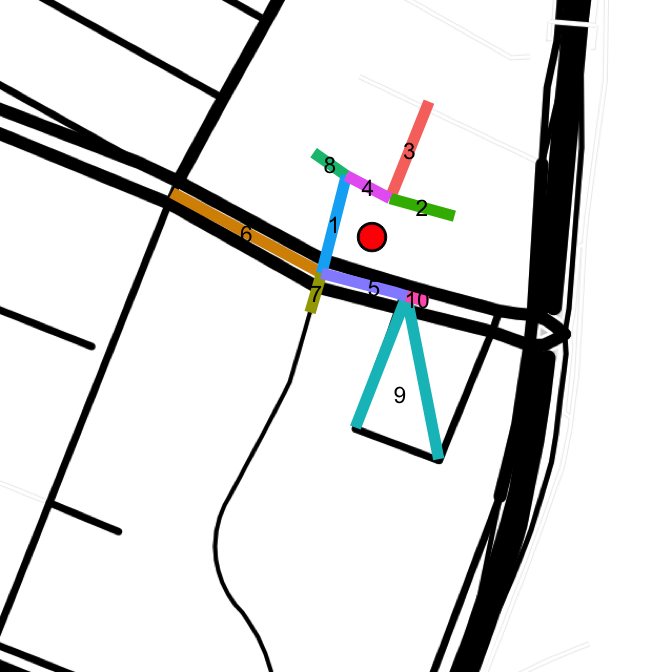
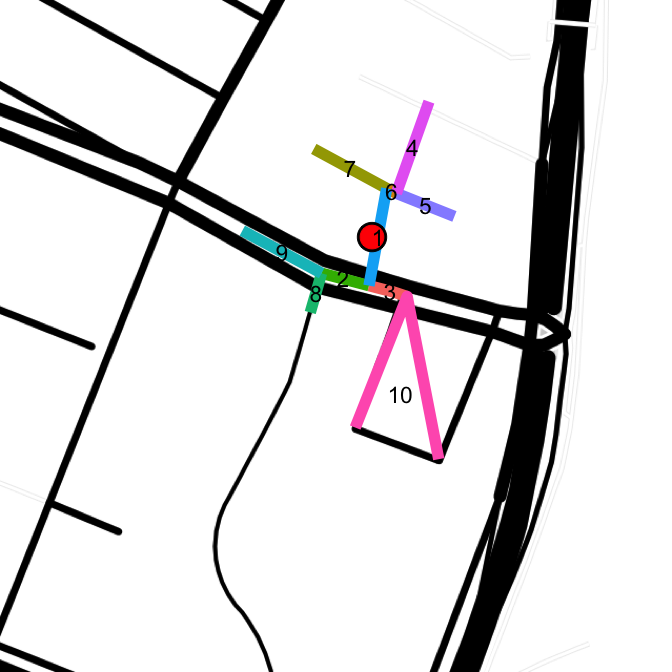
change treemap to points

Changed region(s): [[0.25, 0.125, 0.6875, 0.6875]]

diff --git a/rmd/Accuracy/Accuracy.md b/rmd/Accuracy/Accuracy.md
@@ -6,9 +6,9 @@ March 30, 2016
 
 
 
-This is an exploration to achieve higher accuracy in mapping latitude and longitude to a street segment. Here a segment is defined as a section of street bounded by two other streets. The end goal is an abstracted pattern, but the motivation is to more accurately map trees in New York City to a specific block. 
+This is an exploration to achieve higher accuracy in mapping latitude and longitude to a street block. A block is defined as a section of street bounded by one or two other sections of street. The end goal is an abstracted pattern, but the motivation is to more accurately map trees in New York City to a specific block. 
 
-The [previous analysis](http://www.joewillage.com/blog/2016/3/31/analyzing-new-yorks-trees) left off by stating that an answer to which block is the most tree lined had been reached, "but how valid is it?" Some inconsistencies were noted, specifically with the block that had the highest reported TPM. Recall the graphic that went with this statement. 
+The [previous analysis](http://www.joewillage.com/blog/2016/3/31/analyzing-new-yorks-trees) left off by stating that an answer to which block is the most tree lined had been reached, "but how valid is it?" Some inconsistencies were noted, specifically with the block that had the highest reported TPM. This is the graphic that went with this statement. 
 
 
 ```r
@@ -34,21 +34,25 @@ ggmap(map.sewardPark) +
 ![](Figs/sewardPark-1.png) 
 
 
+
+And note that all of these points mapped to the block of Grand b/w Clinton and Suffolk, when most actually lie on Clinton St. The southmost point mapped to this block is at 40.7153009, -73.9871687. That point is reverse geocoded as 410 Grand, with the ArcGIS API[^1]. One alternative is retrieving the full tree data from the Tree Map website. That returns the nearest address as 187 Clinton. Much more accurate, but not extensible. In fact, to emphasize a more general application, the Tree Map data will be subsetted to just a collection of geocoordinates. 
+
+
 ```r
-block.35 <- treeMap[treeMap$blockId == 35, ]
+points <- treeMap[, c("lat", "lon", "blockId")]
 ```
-And note that all of these points mapped to the block of Grand b/w Clinton and Suffolk, when most actually lie on Clinton St. The southmost point mapped to this block is tree 165907 (40.7153009, -73.9871687). Tree 165907 is reverse geocoded as 410 Grand, with the ArcGIS API. One alternative is retrieving the full tree data from the Tree Map website. That returns the nearest address as 187 Clinton. Much more accurate, but not extensible. 
 
-It's not the exact address that's needed for a given point, just the block it lies on. The Geonames Find Nearby Streets (FNS) API proves useful here. In fact, that API provides not only the nearest street, but also the to/from addresses of the segment (JICOC [just in case, of course]). A takeaway from the first analysis is that mixing and matching geocoding services gets messy. In attempt to minimize error, only the Geonames family of APIs will be used.  
+Rethinking the question, it's not the exact address that's needed for a given point, just the block it lies on. The Geonames Find Nearby Streets (FNS) API[^2] proves useful here. In fact, that API provides not only the nearest street, but also the to/from addresses of the segment (JICOC [just in case, of course]). A takeaway from the first analysis is that mixing and matching geocoding services gets messy. In attempt to minimize error, only the Geonames family of APIs will be used.  
 
-For the point of interest, here is the result from the Geonames Find Nearby Streets call.
+For the point of interest on Clinton St, here is the result from the FNS call.
 
 
 ```r
+blocks.35 <- points[points$blockId == 35, ] 
 user <- readLines("../../geonames.txt")
 fns.url <- paste0("http://api.geonames.org/findNearbyStreetsJSON?&username=", user, "&")
-fns.parms <- paste0("lat=", block.35[order(block.35$lat), ][1, "lat"], 
-                               "&lng=", block.35[order(block.35$lat), ][1, "lon"])
+fns.parms <- paste0("lat=", blocks.35[order(blocks.35$lat), ][1, "lat"], 
+                               "&lng=", blocks.35[order(blocks.35$lat), ][1, "lon"])
 seg <- fromJSON(file = paste0(fns.url, fns.parms))
 seg <- sapply(seg$streetSegment, function(i) c(i$name, i$fraddl, i$fraddr, i$toaddl, i$toaddr, 
                                               i$mtfcc, i$zip, i$postalcode, i$distance, i$line))
@@ -63,16 +67,16 @@ segments[, 1:8]
 ## 1  Clinton St    166    167    184    185 S1400 10002     0.01
 ## 2                                         S1710          0.035
 ## 3  Clinton St    186    187    198    197 S1400 10002    0.036
-## 4  Clinton St    140    139    164    165 S1400 10002    0.082
-## 5    Grand St    408    411    424    425 S1400 10002    0.082
+## 4    Grand St    408    411    424    425 S1400 10002    0.082
+## 5  Clinton St    140    139    164    165 S1400 10002    0.082
 ## 6    Grand St    390    389    406    409 S1400 10002    0.082
 ## 7                                         S1710            0.1
-## 8                                         S1780            0.1
+## 8                                         S1780          0.101
 ## 9  Suffolk St      1      2     61     62 S1400 10002    0.104
 ## 10   Grand St    374    383    388    387 S1400 10002    0.104
 ```
 
-This useful result set returns the to and from addresses for both sides of the street, as well as the distance from the street (in fact that's how the results are ordered). This may be useful in validation down the line. A final component, not included in the above table, are the coordinate that make up each segment. This is a robust value, and includes not just the points for the start and end of the segment, but points of curvature in between. This allows for drawing a multi-point segment on a map, another useful tool in validation. Plotting these segments results in the following
+This useful result set returns the to and from addresses for both sides of the street, as well as the distance from the street (which is how the results are ordered). A final component, not included in the above table, are the coordinate that make up each segment. This is a robust value, and includes not just the coordinates for the start and end of the segment, but points of curvature in between. This allows for drawing a multi-point segment on a map, a useful tool in validation. Plotting these segments results in the following
 
 
 ```r
@@ -107,38 +111,47 @@ drawLines <- function(lat, lon, maptype){
      geom_text(data = means, aes(x = lon, y = lat, label = segment), size = 6)
 }
 
-drawLines(block.35[order(block.35$lat), ][1, "lat"], block.35[order(block.35$lat), ][1, "lon"],
+drawLines(blocks.35[order(blocks.35$lat), ][1, "lat"], blocks.35[order(blocks.35$lat), ][1, "lon"],
           "toner-lines")
 ```
 
 ![](Figs/draw lines-1.png) 
 
-The point of interest is indicated by the red dot, and each returned segment is uniquely colored. The first segment returned is definitely the most correct: Clinton from 166 - 185. Segment 2 is unwanted, and is actually just a sidewalk from Clinton to Essex. Segment 3 is the other segment that completes this block. Segments 4 - 10 are not part of the block. **The task at hand is to create a reproducible process that groups segments 1 and 3 into a block, and eliminates the other results**.  
+The point of interest is indicated by the red dot, and each segment returned is uniquely colored. The first segment returned is definitely the most correct: Clinton St from 166 - 185. Segment 2 is unwanted, and is actually just a sidewalk from Clinton to Essex. Segment 3 is the other segment that completes this block. Segments 4 - 10 are not part of the block. **The task at hand is to create a reproducible process that groups segments 1 and 3 into a block, and eliminates the other results**.  
 
-The approach involves the Geonames Find Nearest Intersection (FNI) API. Each segment previously returned from the FNS API will have it's two endpoints passed into FNI. The order of rules is as follows:  
+The approach involves the previously mentioned Geonames FNS API, as well as the Geonames Find Nearest Intersection (FNI) API. Points are passed to the FNS API, and the segments returned will have their two endpoints passed into an FNI call. The order of rules is as follows:  
 
-1) Segments are evaluated in the order of minimal `distance` from the point. The first segment will act as the reference point. Segments may be considered to be part of the block only if their `street` is the same value as that of the first segment.   
-1) A call is made to the FNI API using the segment's endpoints (first and last coordinates).  
-2) Endpoints that are within X `distance` of their nearest intersection are marked as a block end. X is close to 0.
+1) A point's geocoordinates are passed into the FNS API, returning a list of segments.  
+1) Segments are evaluated in the order of minimal `distance` from the point. The first segment will act as the reference. Segments may be considered for block inclusion only if their `street` is the same value as that of the reference.     
+1) Two calls are made to the FNI API, using the segment's endpoints (first and last coordinates).  
+2) Endpoints that are within near-0 `distance` of their nearest intersection are marked as a block end. 
 2) If the block has two ends, exit the process.  
 3) If the block has less than two ends, repeat with the remaining segments.   
 
-An example with the previous data is as follows:  
-Segment 1 is the reference point and an FNI call is made with each of it's endpoints. Two distinct intersections are returnd. The distance of the first endpoint to it's nearest intersction is 0. The distance of the second endpoint to it's nearest intersection is 0.7. Endpoint 1 is added as a block end. The block is still incomplete, process next segment. 
+An example with the previous data is as follows: Segment 1 is the reference and an FNI call is made with each of it's endpoints. Two distinct intersections are returned. The distance of segment 1's first endpoint to it's nearest intersection is 0. The distance of the second endpoint to it's nearest intersection is 0.7. Endpoint 1 is added as a block end. The block is still incomplete, process next segment. 
 
-The street of segment 2 does not match the reference (segment 1). It's street name is actually an empty string. Skip this segment.  
+The `street` of segment 2 does not match the reference (segment 1). It's street name is actually an empty string. Skip this segment.  
 
-Segment 3 has a matching street name, "Clinton St". The FNI calls are made for both endpoints. Distinct endpoints are returned. Endpoint 1 has distance 0.7, and endpoint 2 has distance 0. Endpoint 2 is added as a block end. The block now has two ends and is considered complete. The process exits.  
+Segment 3 has a matching street name, "Clinton St". FNI calls are made for both endpoints. Distinct endpoints are returned. Endpoint 1 has distance 0.7, and endpoint 2 has distance 0. Endpoint 2 is added as a block end. The block now has two ends and is considered complete. The process exits.  
 
 The entire process looks as follows:  
 
 
 ```r
+lines.list <- strsplit(segments$line, ",")
+lines <- data.frame()
+for (segment in 1:length(lines.list)){
+  lines <- rbind(lines, cbind(segment, lines.list[[segment]]))
+}
+lines$V2 <- as.character(lines$V2)
+lines <- lines %>% separate(V2, c("lon", "lat"), " ") %>% 
+          mutate(lon = as.numeric(lon), lat = as.numeric(lat))
+
 blocks <- data.frame()
 tmpBlock <- data.frame()
 fni.url <- paste0("http://api.geonames.org/findNearestIntersectionJSON?&username=", user, "&")
+primary <- segments[1, "street"]
 for (segment in 1 : nrow(segments)) {
-  primary <- segments[1, "street"]
   if (segments[segment, "street"] != primary) {
     next
   }
@@ -165,7 +178,7 @@ for (segment in 1 : nrow(segments)) {
                                  lat = int2$intersection$lat, lon = int2$intersection$lng, 
                                  stringsAsFactors = FALSE))
   } 
-  if (nrow(tmpBlock) >= 2) {
+  if (nrow(tmpBlock) == 2) {
     blocks <- rbind(blocks, cbind(nrow(blocks) + 1, primary, tmpBlock[1, ], tmpBlock[2, ]))
     break
   }
@@ -205,7 +218,7 @@ getSegments <- function(lat, lon) {
 } 
 ```
 
-A `getSegments` function is broken out to find all the nearest segments to a given point. The code to grab the beginning and ending coordinates for a segment is streamlined in an sapply statement. The complete lines are disgarded, as can be seen by the absence of column 9 in the final statement.  
+The `getSegments` function is broken out to find all the nearest segments to a given point. The code to grab the beginning and ending coordinates for a segment is streamlined in an sapply statement. The complete lines are discarded, as can be seen by the absence of column 9 in the final statement.  
 
 Another small function, `getStreet` helps with code reuse.
 
@@ -221,7 +234,7 @@ getStreet <- function(primary, intersection) {
 }
 ```
 
-Now, embedding this process within a loop for every point will look like this:
+Embedding this whole process within a loop for every point will look like this:
 
 
 ```r
@@ -233,9 +246,9 @@ blocks <- data.frame(id = 1, primary.street = "Clinton St", cross1.segment = 1,
                      stringsAsFactors = FALSE)
 err <- NULL
 tmpBlock <- NULL
-treeMap$blockId <- NULL
-for (tree in 1:nrow(treeMap)) { 
-  segments <- getSegments(treeMap[tree, "lat"], treeMap[tree, "lon"])
+points$blockId <- NULL
+for (point in 1:nrow(points)) { 
+  segments <- getSegments(points[point, "lat"], points[point, "lon"])
   primary <- segments[1, "street"]
   tmpBlock <- data.frame()
   for (segment in 1 : nrow(segments)) {
@@ -275,7 +288,7 @@ for (tree in 1:nrow(treeMap)) {
   }
   if (is.null(tmpBlock$cross1.segment) | is.null(tmpBlock$cross2.segment)) {
     # 2 endpoints were not found in the list of segments. add to error list and go to next poitn
-    err <<- c(err, tree)
+    err <<- c(err, point)
     tmpBlock <- NULL
     next
   }
@@ -285,18 +298,18 @@ for (tree in 1:nrow(treeMap)) {
   if (nrow(x) > 0) {
     # block exists
     blocks[blocks$id == x$id, "count"] <- blocks[blocks$id == x$id, "count"] + 1
-    treeMap[tree, "blockId"] <- blocks[blocks$id == x$id, "id"]
+    points[point, "blockId"] <- blocks[blocks$id == x$id, "id"]
   } else{
     blocks <- rbind(blocks, 
                     cbind(id = nrow(blocks) + 1, primary.street = primary, tmpBlock, count = 1))
-    treeMap[tree, "blockId"] <- nrow(blocks)
+    points[point, "blockId"] <- nrow(blocks)
   }
 }
 ```
 
 
 
-Most of the points are successfully mapped to blocks, but errors out on point 985 (more on that later).
+Most of the points are successfully mapped to blocks, but the loop errors out on point 985 (more on that later). The errors that are caught look like this:  
 
 
 ```r
@@ -308,7 +321,7 @@ length(err)
 ```
 
 ```r
-errTable <- table(treeMap[err, "street"])
+errTable <- table(points[err, "street"])
 errTable 
 ```
 
@@ -326,7 +339,7 @@ Out of the 36 errors recorded, the majority are on E 5th St. Looking at the data
 
 
 ```r
-drawLines(treeMap[67, "lat"], treeMap[67, "lon"], "toner-lines")
+drawLines(points[67, "lat"], points[67, "lon"], "toner-lines")
 ```
 
 ![](Figs/5th st-1.png) 
@@ -336,30 +349,31 @@ Here is another point that was caught as an error
 
 
 ```r
-drawLines(treeMap[462, "lat"], treeMap[462, "lon"])
+drawLines(points[462, "lat"], points[462, "lon"])
 ```
 
 ![](Figs/4th st-1.png) 
 
-The FNS API doesn't return segments to complete the full block between Ave A and B. Even with the radius set to the max of 1 km, no additional segments are returned. In both of these cases, the `tmpBlock` dataframe captures the correct single end from the primary block. But it also captures both ends of the segment next to it (segment 2 in the above image). This has motivated a fall back option when `tmpBlock` includes more than 2 block ends. In these cases, the endpoints of the primary segment will be used for both block ends, even though one end does not sit on an intersection. Essentially, the segment is stretched out to the nearest intersection. 
+The FNS API doesn't return segments to complete the full block between Ave A and B. Even with the radius set to the max of 1 km, no additional segments are returned. In both of these cases, the `tmpBlock` dataframe captures the correct single end from the reference segment. But it also captures both ends of the segment next to it (segment 2 in the above image). This has motivated a fall back option when `tmpBlock` includes more than 2 block ends. In these cases, the endpoints of the primary segment will be used for both block ends, even though one end does not sit on an intersection. Essentially, the segment is stretched out to the nearest intersection. 
 
-For the above point, 462, this means the block is mapped to 4th St b/w A and B. For the 5th St dead-end segment (67), it will be recorded as 5th St b/w B and C. Unfortunately, it's impossible to distinguish between an actual dead-end block and one that simply didn't return it's complete segments. The above two cases look the same from the data point of view. It's only with the actual map underlaid that it can be seen 4th does indeed intersect with Avenue A and 5th doesn't interset with Avenue B.  
+For the above point, 462, this means the block is mapped to 4th St b/w A and B. For the 5th St dead-end segment (67), it will be recorded as 5th St b/w B and C. Unfortunately, it's impossible to distinguish between an actual dead-end block and one that simply didn't return it's complete segments. The above two cases look the same from the data point of view. It's only with the actual map underlaid that it can be seen 4th St does indeed intersect with Avenue A, and 5th St doesn't intersect with Avenue B.  
 
-In the code, an additional chunk is added to preserve the intersections from the primary segment. If the loop later finds more than 2 block ends, it will default to using the intersections nearest the primary block.   
+In the code, an additional chunk is added to preserve the intersections from the reference segment. If the loop finds more than 2 block ends, it will default to using the intersections nearest the reference segment.   
 
-Another addition is a check if `minStreet > 1`. This handles situations where both block ends are the same intersection, marking the second one as NA. This was the case for the point that broke the loop, 985.  
+Another addition is a check if `minStreet > 1`. This handles situations where both block ends are identical, by marking the second one as NA. This was the case for the point that broke the above loop, point 985.  
 
 **`<Interesting digression alert>`**  
 Here is the block which threw the error
 
 
 ```r
-drawLines(treeMap[985, "lat"], treeMap[985, "lon"], "terrain")
+drawLines(points[985, "lat"], points[985, "lon"], "terrain")
 ```
 
 ![](Figs/E Bway-1.png) 
 
-The point is on the north side of Grand St. One of the design choices is to combine both sides of the street. So whether on the north or south, blocks on Grand will be split at Pitt, Bialystoker, East Broadway (1), East Broadway (2), Columbia, Henriy/Jackson, Lewis, and Madison. The point lies on the intersection between E Broadway and E Broadway. There is a weird triangle where East Broadway splits into a small west-bound section and then a separate east-bound section. The block should legitimately be on Grand between E Broadway and E Broadway (segment 1 between segments 5 and 2). This is a rare instance where the same intersection should correctly be used for both block ends. `< / Digression>`     
+The point is on the north side of Grand St. One of the design choices is to combine both sides of the street. So whether on the north or south, blocks on Grand will be split at Pitt, Bialystoker, East Broadway (1), East Broadway (2), Columbia, Henry/Jackson, Lewis, and Madison. The point lies on the intersection between E Broadway and E Broadway. There is a weird triangle where East Broadway splits into a small west-bound section (5) and a separate east-bound section (2). The block should legitimately be on Grand between E Broadway and E Broadway (segment 1 between segments 5 and 2). This is a rare instance where the same intersection should correctly be used for both block ends.   
+`< / Digression>`     
 
 The added chunks are as follows  
 
@@ -391,11 +405,12 @@ The added chunks are as follows
 
 
 
-That method accounts for many of the previous errors. The following blocks were captured.  
+That method accounts for many of the previous errors. The following blocks were captured that way.  
 
 
 ```r
-prevErrs <- blocks[grepl("&", blocks$cross1.street) | grepl("&", blocks$cross2.street) | grepl("NA", blocks$cross2.street), c(1, 2, 4, 8, 11)]
+prevErrs <- blocks[grepl("&", blocks$cross1.street) | grepl("&", blocks$cross2.street) |
+                     grepl("NA", blocks$cross2.street), c(1, 2, 4, 8, 11)]
 prevErrs
 ```
 
@@ -460,51 +475,51 @@ prevErrs
 ## 2142                       Sheriff St     1
 ```
 
-These 28 blocks account for 100 points. Fortunately, correcting this is a relatively simple process: look up the coordinates (not shown) in a [map website](http://www.geonames.org/maps/us-reverse-geocoder.html) and plug the correct cross street directly into the `blocks` dataframe. For a larger number of blocks, this may be a job for Mechanical Turks[^1].  
+These 28 blocks account for 100 points. Fortunately, correcting this is a relatively simple process: look up the coordinates (not shown) in a [map website](http://www.geonames.org/maps/us-reverse-geocoder.html) and plug the correct cross street directly into the `blocks` dataframe. For a larger number of blocks, this may be a job for Mechanical Turks[^3].  
 
-The remaining problem-points fell into the catch-all group (`err`), which includes only 17 points. The first one looks like this. 
+The remaining problem-points fell into the catch-all group (`err`), which now includes only 17 points. The first one looks like this. 
 
 
 ```r
-drawLines(treeMap[err[1], "lat"], treeMap[err[1], "lon"], "toner-lines") 
+drawLines(points[err[1], "lat"], points[err[1], "lon"], "toner-lines") 
 ```
 
 ![](Figs/Baruch-1.png) 
 
-Here, even the map layer fails to capture the actual streets. The first 4 error points lie on Lillian Wald Dr, a block that actually loops around PS 188. Those streets are made up of segments 1 (roughly), 8 + 4, and a segment between 4 and the middle of 5. An accurate row for these points would have primary street as Lillian Wald Dr, and both cross streets as E Houston St.  
+Here, even the map layer fails to capture the actual streets. The first 4 error points lie on Lillian Wald Dr, a block that loops around PS 188. Those streets are made up of segments 1 (roughly), 7 + 6, and a segment parallel to 1 that runs between 5 and 3. An accurate row for these points would have primary street as Lillian Wald Dr, and both cross streets as E Houston St.  
 
-Here is a map of all the un-handled error points.  
+Here is a map of all the caught error points.  
 
 
 ```r
-lat.mid <- mean(c(min(treeMap[err, "lat"]), max(treeMap[err, "lat"])))
-lon.mid <- mean(c(min(treeMap[err, "lon"]), max(treeMap[err, "lon"])))
+lat.mid <- mean(c(min(points[err, "lat"]), max(points[err, "lat"])))
+lon.mid <- mean(c(min(points[err, "lon"]), max(points[err, "lon"])))
 map.errs <- get_map(location = paste0(lat.mid, ",", lon.mid), zoom = 15, maptype = "toner-lines")
 ggmap(map.errs) + 
-   geom_point(data = treeMap[err, ],
+   geom_point(data = points[err, ],
               aes(x = lon, y = lat), alpha = 0.4, color = "blue", size = 8) +
    theme_nothing()
 ```
 
 ![](Figs/unhandled errors-1.png) 
 
-Rather than manually correctly all of these, clustering will be group points close together, and the clusters can be manually corrected. That will knock the work down from 17 to 7 clusters.  
+Rather than manually correctly all of these, clustering is used to group points close together, and then the clusters can be manually corrected. That will knock the work down from 17 points to 7 clusters.  
 
 
 ```r
-treeMap.err <- treeMap[err, ]
+points.err <- points[err, ]
 set.seed(123)
-km <- kmeans(cbind(treeMap.err[, "lat"], treeMap.err[, "lon"]), centers = 7, nstart = 50)
-treeMap.err$cluster <- as.factor(km$cluster)
+km <- kmeans(cbind(points.err[, "lat"], points.err[, "lon"]), centers = 7, nstart = 50)
+points.err$cluster <- as.factor(km$cluster)
 ggmap(map.errs) + 
-   geom_point(data = treeMap.err,
+   geom_point(data = points.err,
               aes(x = lon, y = lat, color = cluster), alpha = 0.4, size = 8) +
    theme_nothing() 
 ```
 
 ![](Figs/clustered errors-1.png) 
 
-Basic K-means clustering with k = 7 appears to have done the trick. Remember the dark-green cluster is the block of Lillian Wald Dr which loops off Houston. Now 7 blocks will be manually inserted into the blocks table, based on the clustered coordinates.  
+Basic K-means clustering with k = 7 appears to have done the trick. Remember the dark-green cluster is the block of Lillian Wald Dr which loops off Houston. Now 7 blocks will be manually inserted into the blocks table, based on the cluster centers (another good Mechanical Turk/intern task). 
 
 
 ```r
@@ -522,7 +537,18 @@ km$centers
 ## 7 40.71524 -73.99475
 ```
 
+See the [corrections file](https://github.com/jwillage/Trees/blob/master/corrections_accuracy.R) for added blocks. Blocks were inserted and their corresponding points in the original dataframe (`points`) were mapped back to them. 
 
-[^1]:  **AWS Mechanical Turk**  
+All the points are now mapped to a block. The main algorithm captured 99.14% of the points (1959) and 98% of the blocks (328). It's up to the user if they want to further correct the `prevErr` blocks (cross street contained multiple blocks or was missing). I would only correct the blocks that are of interest to the application. In the tree mapping project, if any of those blocks had a high TPM, it would be worth correcting. 
+
+[^1]: **ArcGIS REST API: World Geocoding Service**  
+  ReverseGeocode returns the closest address to a given lat/lng location  
+  http://developers.arcgis.com/rest/geocode/api-reference/geocoding-reverse-geocode.htm  
+  The Find operation geocodes input and can handle intersections  
+  https://developers.arcgis.com/rest/geocode/api-reference/geocoding-find.htm  &nbsp;&nbsp;&nbsp;
+[^2]:  **Geonames Find Nearby Streets (FNS) API**  
+  Browser-based map and documentation:  
+  http://www.geonames.org/maps/us-reverse-geocoder.html &nbsp;&nbsp;&nbsp;  
+[^3]:  **AWS Mechanical Turk**  
   AWS service that allows users to pay for humans to perform a rote task.  
   https://aws.amazon.com/documentation/mturk/ &nbsp;&nbsp;&nbsp;
